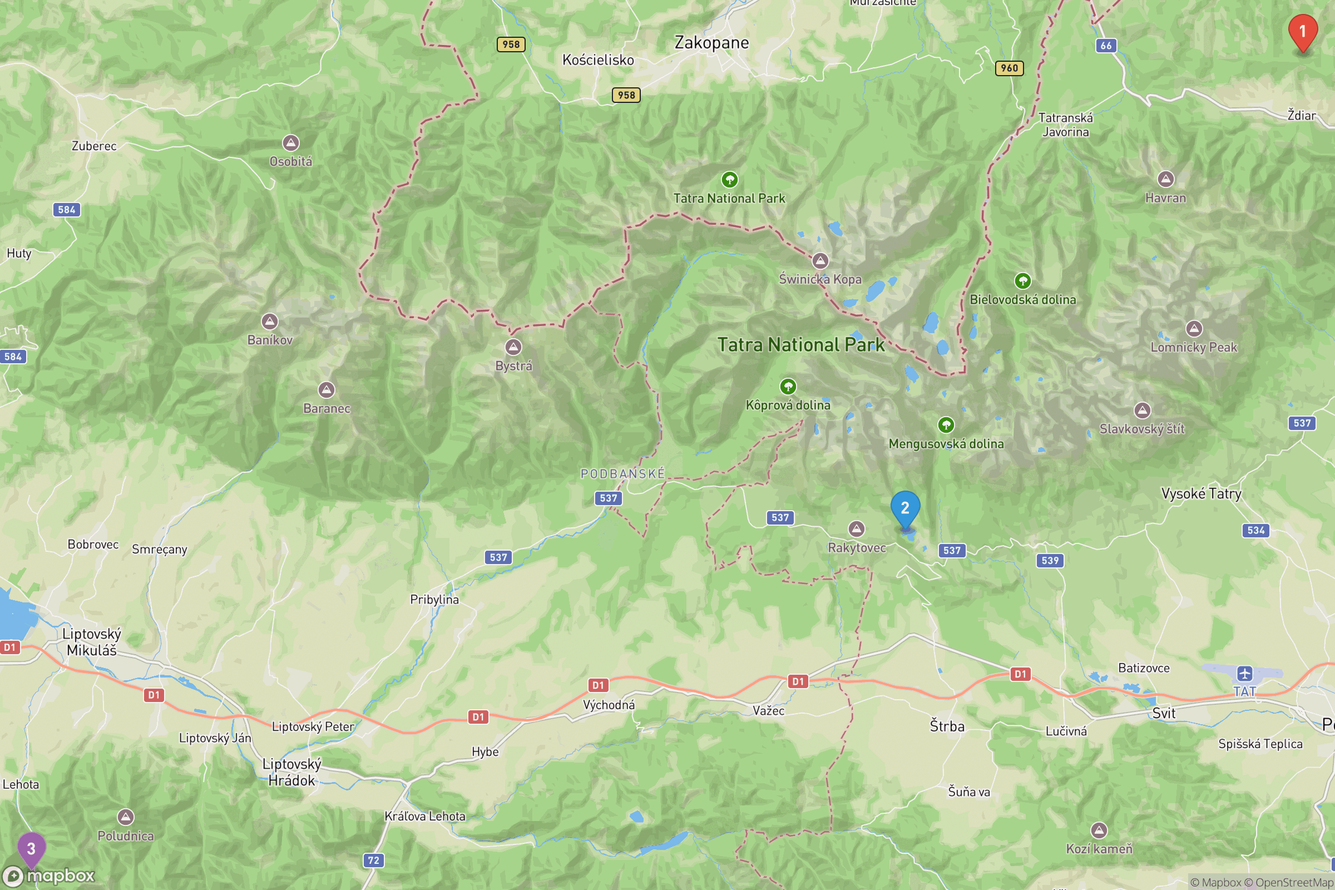
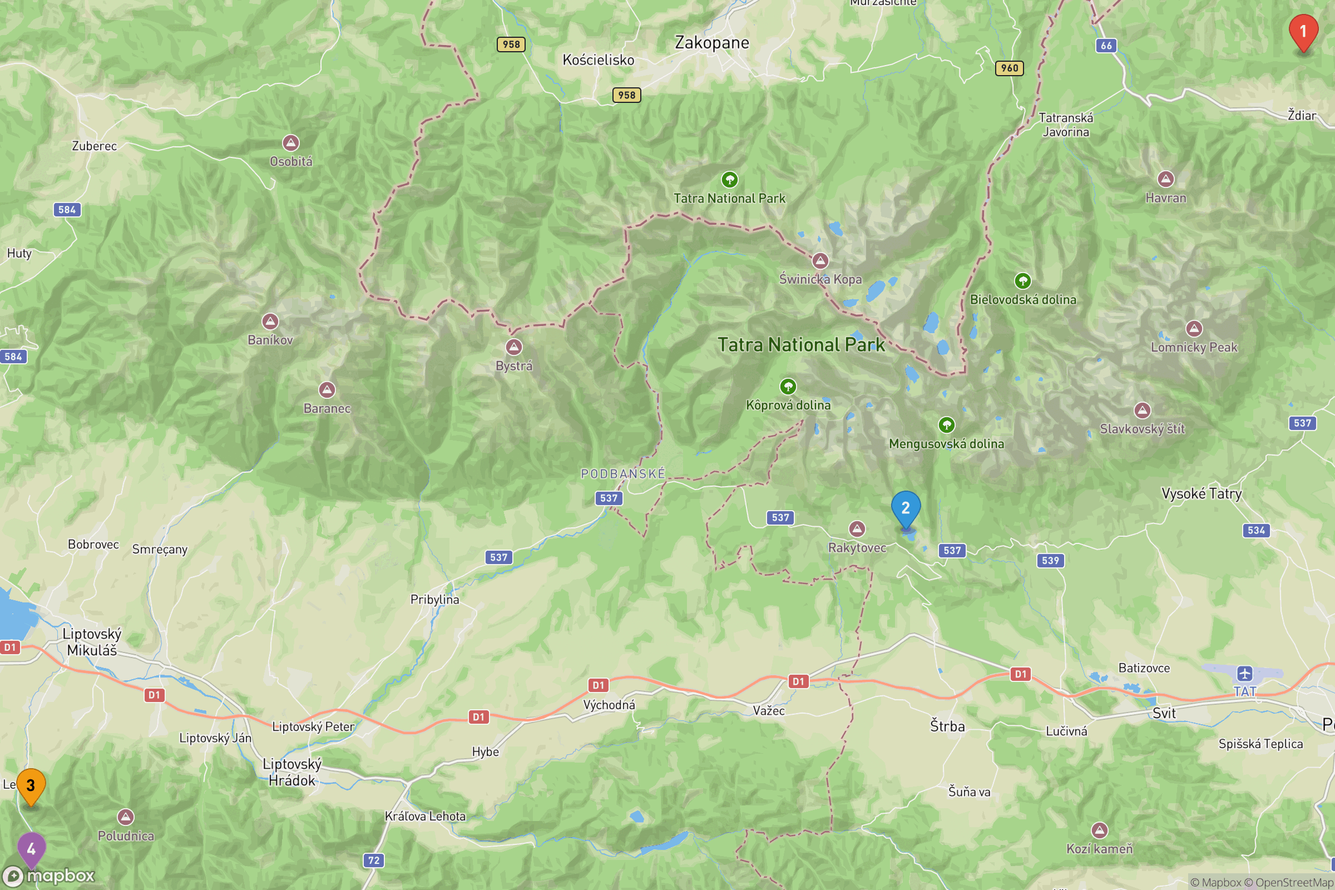
auto-commit for f16f003b-ad8b-40d1-a04f-44213068482b

diff --git a/frontend/public/wycieczka3-preview.html b/frontend/public/wycieczka3-preview.html
@@ -77,15 +77,15 @@
     <div class="price-row">
       <div>
         <div class="price-label">Cena od osoby</div>
-        <div class="price-value">350 zł<span class="price-unit"> /os</span></div>
+        <div class="price-value">380 zł<span class="price-unit"> /os</span></div>
       </div>
-      <div class="duration">⏱ ~14 godzin</div>
+      <div class="duration">⏱ ~15-16 godzin</div>
     </div>
 
     <!-- 3 ATTRACTIONS -->
     <div class="section">
-      <div class="section-title">🌟 3 niezapomniane atrakcje</div>
-      <div class="section-subtitle">Trzy zupełnie różne miejsca w jednym dniu</div>
+      <div class="section-title">🌟 4 niezapomniane miejsca</div>
+      <div class="section-subtitle">Cztery zupełnie różne miejsca w jednym dniu</div>
 
       <!-- 1. Bachledova -->
       <div class="attraction">
@@ -136,9 +136,23 @@
         </div>
       </div>
 
-      <!-- 3. Jaskinia Demianowska - KOLAŻ -->
+      <!-- 4. Dolina Demianowska -->
       <div class="attraction">
-        <div class="attraction-title">❄ 3. Demianowska Jaskinia Lodowa</div>
+        <div class="attraction-title">🌲 4. Dolina Demianowska</div>
+        <div class="attraction-desc">
+          <p style="margin-bottom:8px;">Malownicza dolina w Tatrach Niżnych:</p>
+          <ul style="margin: 0 0 10px 18px; padding:0;">
+            <li>lasy i skały</li>
+            <li>górskie potoki</li>
+            <li>spokojne punkty widokowe</li>
+          </ul>
+          <p style="font-style:italic; color:#1c1c1e;">Droga przez dolinę sama w sobie jest atrakcją.</p>
+        </div>
+      </div>
+
+      <!-- 5. Jaskinia Demianowska - KOLAŻ -->
+      <div class="attraction">
+        <div class="attraction-title">❄ 5. Demianowska Jaskinia Lodowa</div>
         <div class="attraction-desc">
           <p style="margin-bottom:8px;">Jedna z najbardziej niezwykłych jaskiń na Słowacji. Wnętrze zachwyca naturalnymi lodowymi formacjami, ogromnymi komorami, podświetlonymi korytarzami i chłodnym klimatem nawet w środku lata.</p>
           <p style="margin-bottom:6px;"><b>Zwiedzanie z przewodnikiem prowadzi przez:</b></p>
@@ -169,27 +183,32 @@
         <div class="step">
           <div class="step-time">05:30</div>
           <div class="step-title">🚗 Wyjazd z Krakowa</div>
-          <div class="step-desc">Wczesny start. Granica słowacka → Ždiar (~2.5h)</div>
+          <div class="step-desc">Trasa: Kraków → Zakopane → przejście graniczne <b>Jurgów</b> → słowackie Tatry</div>
         </div>
         <div class="step">
           <div class="step-time">08:30</div>
-          <div class="step-title">⛰ Bachledova Dolina</div>
-          <div class="step-desc">Kolejka + Chodnik w Koronach Drzew + tobogan. Panorama Tatr Bielskich. ~2.5h</div>
+          <div class="step-title">⛰ Dolina Bachledowa + Chodnik w Koronach Drzew</div>
+          <div class="step-desc">Spacer w koronach drzew, wieża panoramiczna, restauracje. Czas pobytu ~2h</div>
         </div>
         <div class="step">
           <div class="step-time">11:30</div>
-          <div class="step-title">💎 Strbskie Pleso</div>
-          <div class="step-desc">Spacer wokół jeziora, obiad z widokiem na Tatry. ~2h</div>
+          <div class="step-title">💎 Szczyrbskie Pleso</div>
+          <div class="step-desc">Spacer wokół jeziora, kawa z widokiem. ~1-1.5h</div>
+        </div>
+        <div class="step">
+          <div class="step-time">13:30</div>
+          <div class="step-title">🌲 Dolina Demianowska</div>
+          <div class="step-desc">Malowniczy przejazd przez Tatry Niżne, krótkie postoje widokowe</div>
         </div>
         <div class="step">
           <div class="step-time">14:30</div>
-          <div class="step-title">❄ Jaskinia Demianowska Lodowa</div>
-          <div class="step-desc">Największa lodowa jaskinia Europy. Trasa zwiedzania ~45 min + dojście. Łącznie ~2h</div>
+          <div class="step-title">❄ Demianowska Jaskinia Lodowa</div>
+          <div class="step-desc">Zwiedzanie z przewodnikiem ~45 min + dojście leśną ścieżką. Łącznie ~1.5h</div>
         </div>
         <div class="step">
-          <div class="step-time">17:00</div>
+          <div class="step-time">16:30</div>
           <div class="step-title">🏠 Powrót do Krakowa</div>
-          <div class="step-desc">Przyjazd ~20:30-21:30. Odwóz pod hotel/adres</div>
+          <div class="step-desc">Przyjazd <b>~21:00-22:00</b>. Odwóz pod hotel/adres</div>
         </div>
       </div>
     </div>
@@ -199,13 +218,29 @@
       <div class="section-title">🗺 Trasa na mapie</div>
       <img src="/trip3-map.png" class="map-img" alt="Mapa Słowacja" />
       <div style="margin-top:10px;font-size:12px;color:#8e8e93;">
-        🔴 1. Bachledova Dolina &nbsp; 🔵 2. Strbskie Pleso &nbsp; 🟣 3. Jaskinia Demianowska
+        🔴 1. Bachledova &nbsp; 🔵 2. Szczyrbskie Pleso &nbsp; 🟠 3. Dolina Demianowska &nbsp; 🟣 4. Jaskinia
+      </div>
+    </div>
+
+    <!-- KLIMAT WYCIECZKI -->
+    <div class="section">
+      <div class="section-title">✨ Klimat tej wycieczki</div>
+      <p style="margin-bottom:10px;font-size:14px;">Ta trasa jest idealna jeśli lubisz:</p>
+      <ul style="margin: 0 0 14px 18px; padding:0; font-size:14px;">
+        <li>spokojne widoki</li>
+        <li>góry bez dużego wysiłku</li>
+        <li>miejsca „instagramowe"</li>
+        <li>naturę i relaks</li>
+        <li>połączenie spacerów i atrakcji</li>
+      </ul>
+      <div style="background:linear-gradient(135deg, #fff3cd, #ffe69c); padding:12px; border-radius:10px; font-size:13px; color:#856404;">
+        🍂 <b>Najpiękniej:</b> od czerwca do października, szczególnie <b>jesienią</b>
       </div>
     </div>
 
     <!-- INCLUDED -->
     <div class="section">
-      <div class="section-title">✅ Co w cenie (350 zł/os)</div>
+      <div class="section-title">✅ Co w cenie (380 zł/os)</div>
       <div class="included">
         <div class="list-row">✅ Transport tam i z powrotem (Polska→Słowacja)</div>
         <div class="list-row">✅ Kierowca-przewodnik</div>
@@ -214,8 +249,8 @@
         <div class="list-row">✅ Przekroczenie granicy + opłaty drogowe</div>
       </div>
       <div class="excluded">
+        <div class="list-row">⚠ <b>Bilet online do Jaskini Demianowskiej</b> (kupowany online, ~10 €/os)</div>
         <div class="list-row">⚠ Bilet Chodnik w Koronach (~22 €/os)</div>
-        <div class="list-row">⚠ Bilet Jaskinia Demianowska (~10 €/os)</div>
         <div class="list-row">⚠ Obiad w Strbskim Plesie</div>
         <div style="margin-top:8px; font-size:11px; opacity:0.85;">💡 Bilety atrakcji możesz dokupić w aplikacji w jednym checkout (też w EUR/PLN)</div>
       </div>
@@ -223,7 +258,7 @@
 
     <!-- CTA -->
     <div class="cta-bar">
-      <a href="#" class="cta-btn">📅 Zarezerwuj teraz — 350 zł/os</a>
+      <a href="#" class="cta-btn">📅 Zarezerwuj teraz — 380 zł/os</a>
     </div>
   </div>
 </body>
